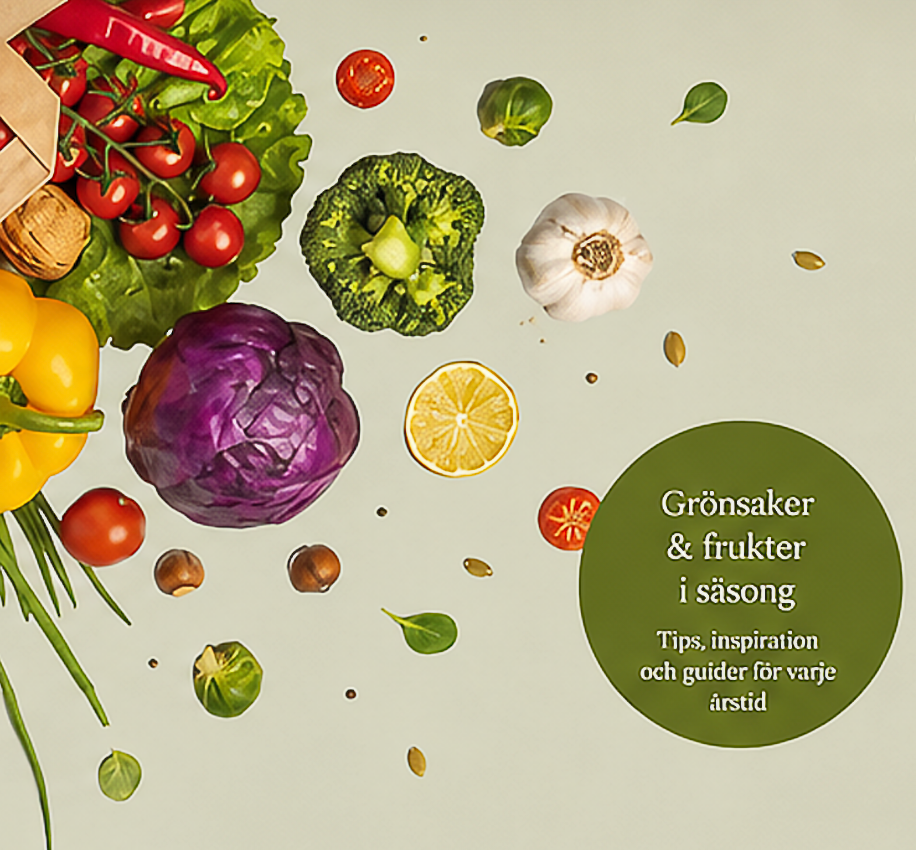
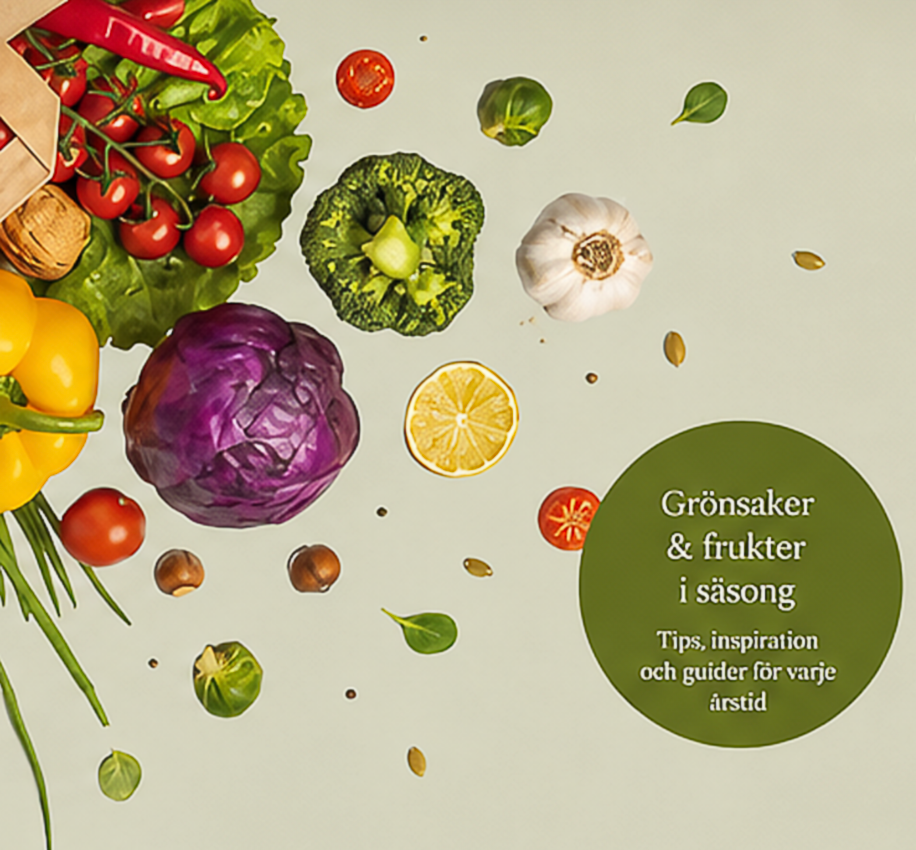
Update text and images

diff --git a/src/data/projects.ts b/src/data/projects.ts
@@ -130,8 +130,8 @@ export const projects: Project[] = [
 
     tags: ["Film", "Storytelling", "Editing", "Visual Effects"],
 
-    image: asset("/images/projectF/Fomslag.png"),
-    caseImage: asset("/images/projectF/Fomslag.png"),
+    image: asset("/images/projectF/Fcover.png"),
+    caseImage: asset("/images/projectF/Fscreen.png"),
 
     role: {
       sv: "Koncept · Postproduktion · Redigering",
@@ -161,8 +161,8 @@ export const projects: Project[] = [
     video: {
       src: asset("/videos/projectF/cykelframjandet.mp4"),
       caption: {
-        sv: "Den färdiga animerade filmen",
-        en: "The final animated film",
+        sv: "Den färdiga filmen",
+        en: "The final film",
       },
     },
   },
